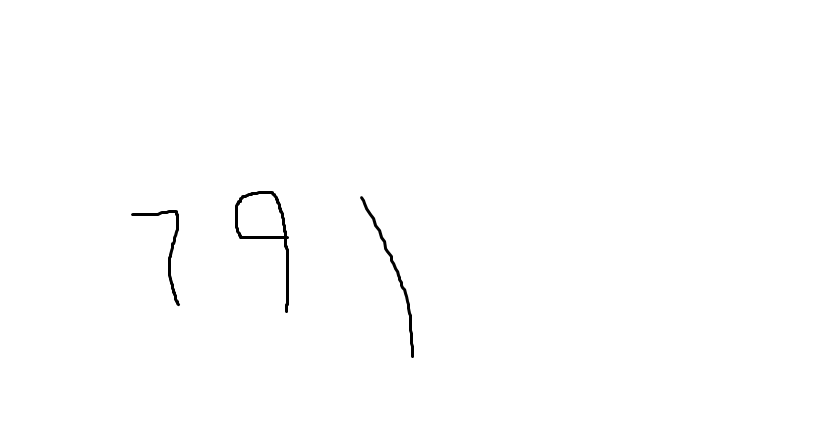
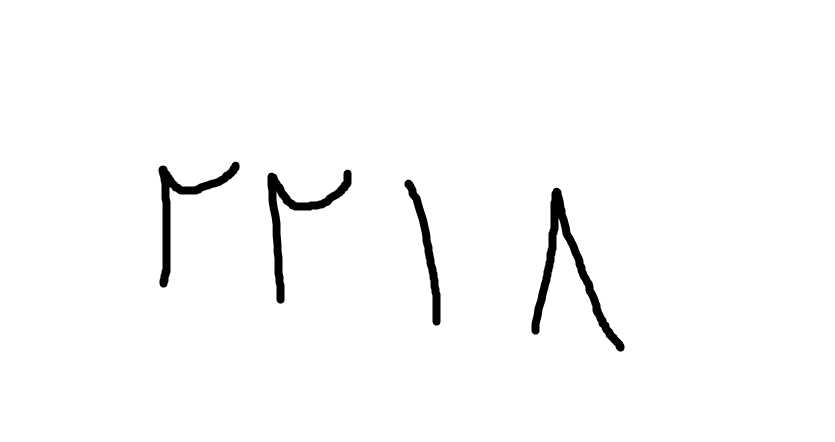
ll

diff --git a/Main.py b/Main.py
@@ -7,6 +7,6 @@ import UserTest
 # )
 
 UserTest.Start(
-    "file5.png",             # Test folder path
+    "file2.png",             # Test folder path
     "AHNRmodelCNN.keras"       # Load model
     )
